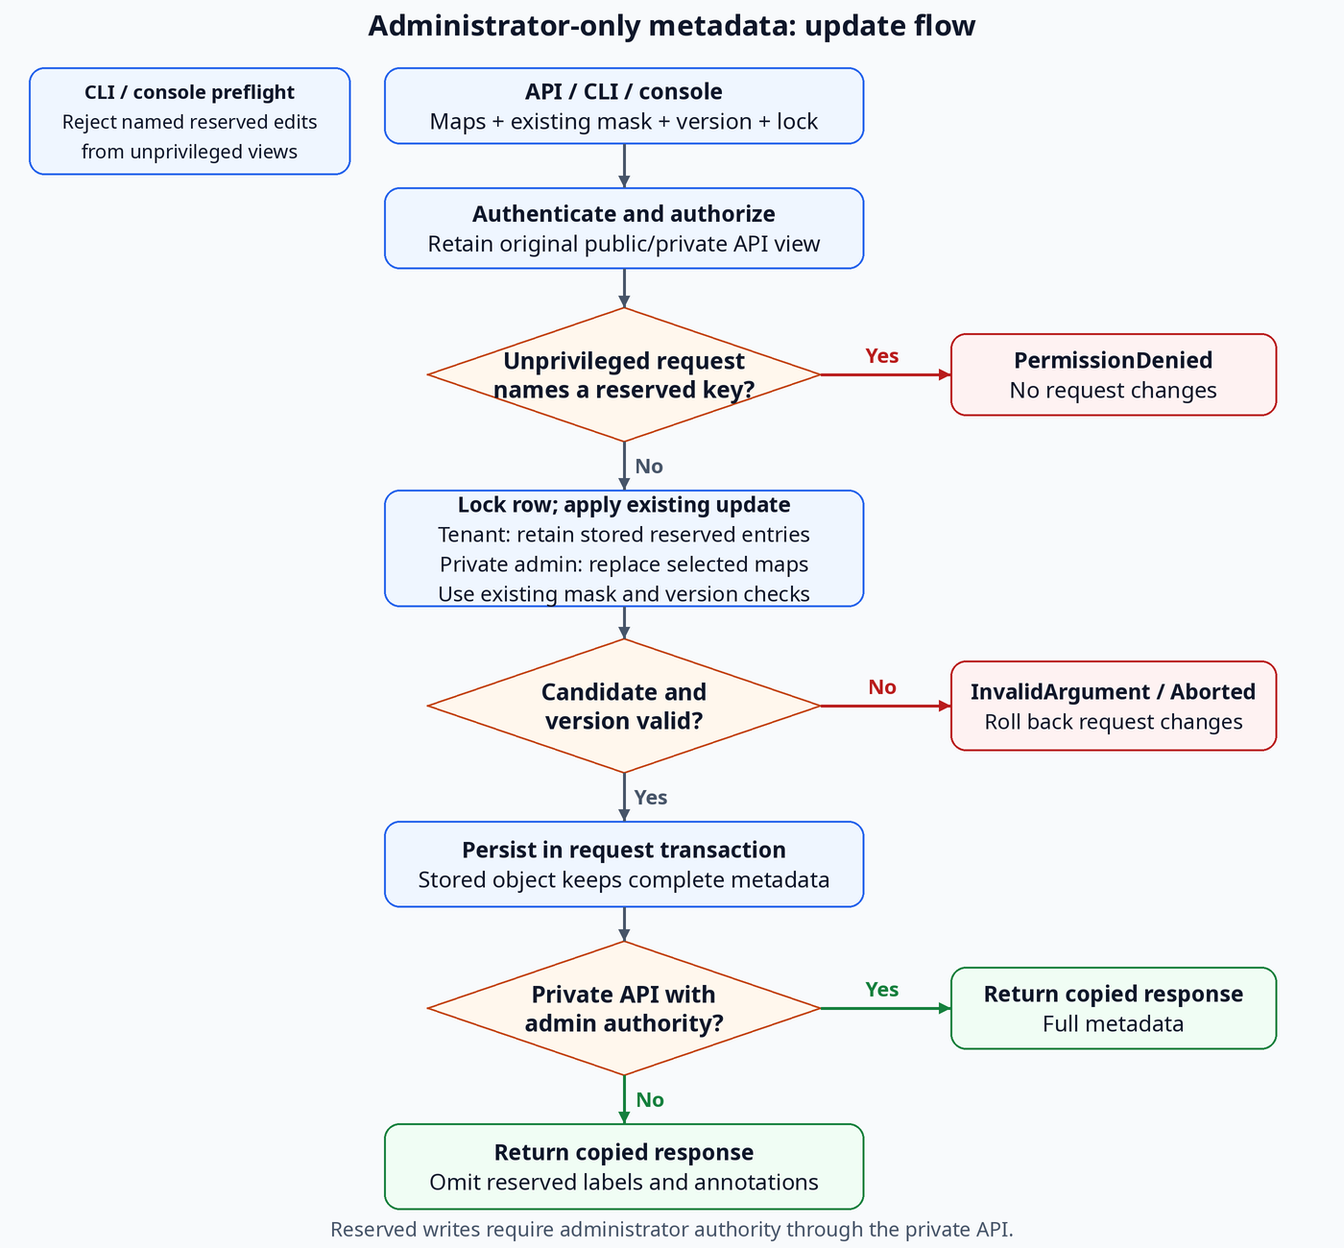
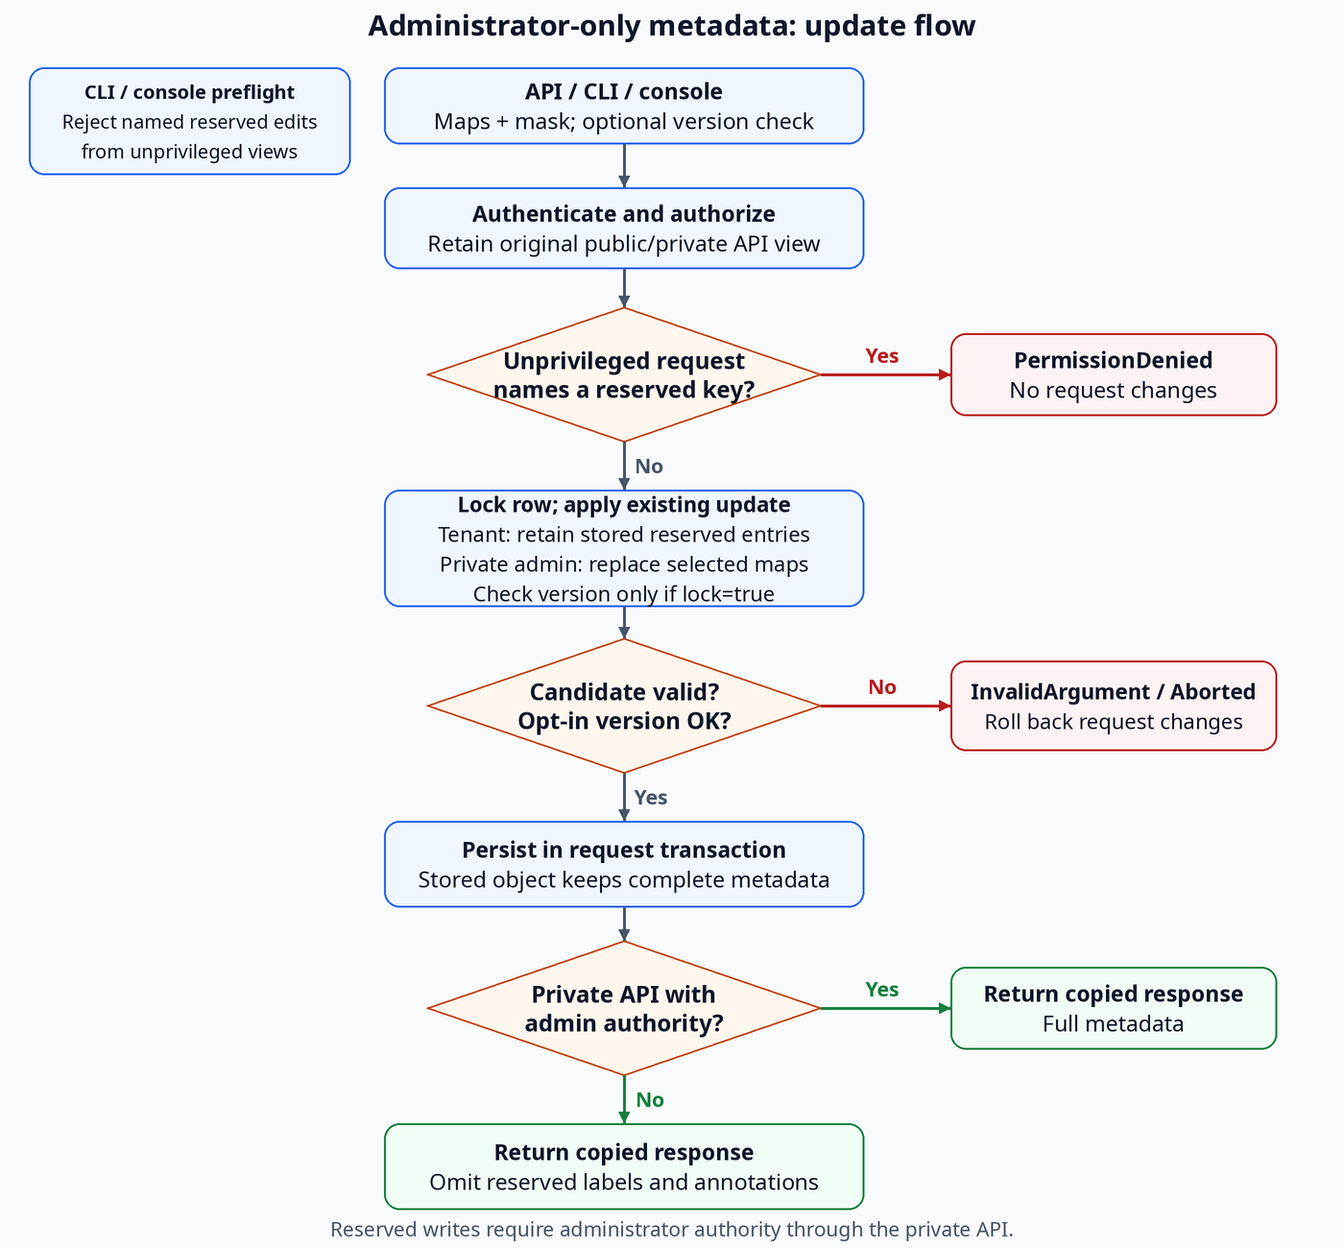
OSAC-6204: Clarify optional version checks for metadata updates
Assisted-by: Codex <noreply@openai.com>

Changed region(s): [[0.3071, 0.0923, 0.6143, 0.1231], [0.3379, 0.4615, 0.6143, 0.4923], [0.3686, 0.5231, 0.5529, 0.5846]]

diff --git a/enhancements/OSAC-6204-support-administrator-only-labels-and-annotations/testplan.md b/enhancements/OSAC-6204-support-administrator-only-labels-and-annotations/testplan.md
@@ -21,6 +21,8 @@ The PRD uses In Scope bullets rather than FR/NFR identifiers. IS-1 through IS-5 
 
 Under confirmed D6, tenant map omission always preserves stored reserved entries. Named forbidden CLI/console operations fail locally before any Update; supplied reserved entries and accepted explicit protected mask paths fail on the server. A whole-map request cannot reveal a removal target that a client has already discarded.
 
+Request locking remains optional: `lock` omitted/false skips the version comparison; `lock=true` checks the supplied version. Reserved-key protection applies to both modes. Database row locking and transaction atomicity remain in use in either mode.
+
 Cases can provide evidence for several bullets; their primary anchor determines numbering only. The case metadata below lists every tested interface change. IC-1 through IC-11 refer to the design's API Extensions table.
 
 ## Shared fixtures and oracles
@@ -81,7 +83,7 @@ For each of the 35 persistent types, seed valid dependencies and an object with 
 ##### Steps
 
 1. For each administrator, type, and map, Create with a reserved entry where supported, then Get/List through its private service.
-2. Read the full map/version, change a reserved value and add a second reserved key, then remove each by omission from a replacement map. Select the edited map with the existing update_mask and set lock=true.
+2. Read the full map, change a reserved value and add a second reserved key, then remove each by omission from a replacement map. Select the edited map with the existing update_mask. Repeat with lock omitted/false and with lock=true plus the current version.
 3. Compare ordinary entries, reserved values, identifier, and version after each mutation using an authorized private read.
 
 ##### Expected Results
@@ -128,7 +130,7 @@ Fixtures cover NetworkClass, VirtualNetwork, Subnet, SecurityGroup, ExternalIPPo
 
 ##### Steps
 
-1. For both admins, set, change, and remove reserved entries on all eight services using fetched replacement maps, existing map-level masks, version, and lock=true.
+1. For both admins, set, change, and remove reserved entries on all eight services using fetched replacement maps and existing map-level masks. Repeat with lock omitted/false and with lock=true plus the current version.
 2. Exercise supported ordinary and mixed ordinary/reserved map edits, retaining untouched operational labels. ExternalIP, ExternalIPAttachment, and NATGateway use a nonempty ordinary mask.
 3. Attempt each recorded forbidden field/default-label change together with a reserved edit. Also omit the mandatory mask on the three lifecycle services.
 4. Verify public Update remains absent and existing controller status operations retain their behavior.
@@ -154,14 +156,14 @@ A mutable private object has multiple entries in both maps and a known version. 
 
 ##### Steps
 
-1. PATCH an edited labels map containing qualified keys and version, first with update_mask=metadata.labels and lock=true, then without an explicit mask to exercise the body-derived mask.
+1. PATCH an edited labels map containing qualified keys, first with update_mask=metadata.labels, then without an explicit mask to exercise the body-derived mask. Repeat with lock omitted/false and with lock=true plus the current version.
 2. With an explicit labels mask, send an empty map, then an omitted map, to clear labels. Repeat for annotations and for both selected maps.
 3. Compare REST results with native gRPC map-level requests and verify unselected maps/fields through private reads.
 
 ##### Expected Results
 
 - Qualified keys remain map entries and reach the service unchanged; body-derived masks select complete maps, not per-key paths.
-- Administrator replacement/clearing agrees with native gRPC. Explicit masks retain selection; unselected fields remain intact. Version locking rejects stale input.
+- Administrator replacement/clearing agrees with native gRPC. Explicit masks retain selection; unselected fields remain intact. Stale versions are rejected only when lock=true; unlocked updates require no version precondition.
 - No custom query parser or additional mask representation is required. Tenant map preservation is checked separately by TC-IS4-01.
 
 #### TC-IS1-05: CLI private metadata operations submit complete selected maps
@@ -184,7 +186,7 @@ The updated CLI has private administrator credentials, sees namespace enforcemen
 
 ##### Expected Results
 
-- The request contains the complete edited selected map, its existing map-level update_mask, the fetched version, and lock=true.
+- The request contains the complete edited selected map and its existing map-level update_mask. Existing lock defaults/options are preserved; no new lock=true or version precondition is forced.
 - Untouched map entries and unrelated fields remain intact; key- deletes by omission and an empty string remains a value. Authorized absent-key removal is a no-op.
 - Private reads show reserved values; both personas have identical coverage. Alias/registry completeness failures cannot silently omit a type.
 
@@ -204,12 +206,12 @@ Both administrators can sign in to the deployed console. Valid fixtures exist fo
 
 1. Open /admin/metadata with each persona and enumerate every type, including private-only types and types without a dedicated detail page.
 2. For each type, use both map editors to add, change, and remove a reserved entry while retaining untouched ordinary/reserved entries.
-3. Inspect Connect/proxy request forwarding of full selected maps, the existing mask, and lock=true; follow detail-page links and reload through the API.
+3. Inspect Connect/proxy forwarding of full selected maps, the existing mask, and any supplied lock/version options; follow detail-page links and reload through the API. Verify this feature does not force lock=true.
 
 ##### Expected Results
 
 - Both personas have identical resource/action coverage; registry completeness is checked against all 35 types.
-- Editors display complete private maps and submit their edited replacements with version locking. Untouched entries and unselected maps/fields remain intact.
+- Editors display complete private maps and submit their edited replacements using existing update options, with no mandatory version checking. Untouched entries and unselected maps/fields remain intact.
 - Connect/proxy/API persistence and existing detail-page links reach the same shared editor.
 
 #### TC-IS1-07: Clients establish namespace enforcement before reserved writes
@@ -261,13 +263,13 @@ Accounts represent both administrators, Tenant Admin, Tenant User, and the restr
 - Public reserved Create/Update requests from either administrator return PermissionDenied and apply no changes or side effects. Administrator authority never bypasses the public API's reserved-key restriction.
 - Private RPC access continues to require the existing method/object authorization independently of metadata projection.
 
-#### TC-IS1-09: Version locking protects administrator replacement maps
+#### TC-IS1-09: Optional version checks retain existing update semantics
 
 | Interface Change | Priority | Automation |
 |---|---|---|
 | IC-3, IC-8, IC-9 | high | automated |
 
-**Tier:** Component integration; deployed Fulfillment; UI unit
+**Tier:** Component integration; deployed Fulfillment; CLI/UI unit
 
 ##### Preconditions
 
@@ -275,15 +277,17 @@ An administrator reads a complete map at version v; a second authorized update c
 
 ##### Steps
 
-1. Submit the edited stale map with its ordinary map-level mask, metadata.version=v, and lock=true through gRPC, REST, CLI, and Connect.
+1. Submit the edited stale map with its ordinary map-level mask, metadata.version=v, and lock=true through gRPC, REST, and Connect requests.
 2. Read the complete private object after each rejection and inspect CLI/editor state.
-3. Reload the full current map/version, retain the concurrent entry, and resubmit the intended edit.
+3. Repeat the API request with lock=false and with lock omitted, using a stale or omitted version. Compare the result with existing selected-map replacement semantics.
+4. Reload the full current map/version, retain the concurrent entry, and resubmit the intended edit with lock=true.
+5. Inspect CLI/UI protocol fixtures: preserve existing lock defaults and any existing caller opt-in option, without adding a mandatory version precondition.
 
 ##### Expected Results
 
-- Every stale operation returns Aborted, changes nothing, and retains the concurrent entry/current version.
-- CLI reports failure; the editor retains unsaved edits and requires reload/resubmission. It does not automatically replay a stale complete map.
-- A fresh-version replacement succeeds without losing the other administrator entry.
+- With lock=true, a stale operation returns Aborted, changes nothing, and retains the current map/version. Clients receiving that error report failure and retain unsaved edits for reload/resubmission.
+- With lock omitted/false, version mismatch alone does not reject the request. A valid replacement succeeds under existing semantics and can overwrite a concurrent change in the selected private map.
+- A fresh-version locked replacement succeeds without losing the other administrator entry. Client defaults and existing opt-in options remain unchanged.
 
 ### IS-2: Tenant visibility
 
@@ -470,6 +474,7 @@ A tenant-visible object has ordinary metadata and stored reserved entries; take 
 1. Update with mixed ordinary changes and a reserved entry that adds a key, changes a value, or supplies the same stored value.
 2. Repeat with the reserved supplied entry outside the ordinary mask and in each map.
 3. Read the full private object after each attempt.
+4. Repeat with lock omitted/false and with lock=true plus the current version.
 
 ##### Expected Results
 
@@ -614,7 +619,7 @@ A tenant-visible mutable object contains multiple ordinary/reserved entries in b
 1. Replace metadata.labels, metadata.annotations, and parent metadata with existing accepted masks, and exercise the existing no-mask path where supported.
 2. Send ordinary edits, empty selected maps, and omitted selected maps; verify an unselected map remains unchanged.
 3. Run an older CLI fixture that deletes an unseen reserved key locally before submitting its ordinary map, including a mixed ordinary change.
-4. Compare complete private maps/versions with the baseline ordinary replacement behavior.
+4. Repeat accepted forms with lock omitted/false and with lock=true plus the current version; compare complete private maps/versions with the baseline ordinary replacement behavior.
 
 ##### Expected Results
 
@@ -662,7 +667,7 @@ A tenant reads its visible maps/version v; an administrator adds, changes, or re
 ##### Steps
 
 1. Submit the stale ordinary replacement with its map-level mask and lock=true; inspect the row.
-2. Repeat with the existing unlocked path where supported, controlling row-acquisition order. Include empty map, parent-metadata, and unmasked forms.
+2. Repeat with lock=false and with lock omitted, controlling row-acquisition order and using a stale or omitted request version. Include empty-map, parent-metadata, and unmasked forms where those forms are supported.
 3. Compare ordinary edits and the complete latest reserved portion through an authorized private read.
 
 ##### Expected Results
@@ -715,7 +720,7 @@ Use older ordinary CLI fixtures, updated clients against legacy server fixtures,
 
 ##### Expected Results
 
-- Supported ordinary operations remain available; updated clients select only edited maps and use version locking without replacing unrelated fields.
+- Supported ordinary operations remain available; updated clients select only edited maps and preserve existing optional lock behavior without replacing unrelated fields.
 - The new server preserves reserved entries on tenant updates. Ordinary older-server operations remain supported, and capabilities do not grant permissions.
 - Public networking Update remains absent. Existing private networking metadata, operational-label, immutable-field, and lifecycle-mask rules remain enforced.
 
@@ -764,7 +769,7 @@ Guide examples, CLI help, and API schema are available for the proposed implemen
 ##### Expected Results
 
 - Guides describe identical admin actions on all persistent types and private-only types, tenant privacy, and whole-request rejection for observable forbidden input.
-- Examples use existing Update maps/masks/lock; administrator omission deletes while tenant omission preserves. Named CLI/console removal is checked before sending a map, and discarded targets cannot be inferred by the server.
+- Examples use existing Update maps/masks and make locking optional: omitted/false requires no version precondition; true checks the supplied version. Administrator omission deletes while tenant omission preserves. Named CLI/console removal is checked before sending a map, and discarded targets cannot be inferred by the server.
 - Support guidance requires namespace enforcement before reserved writes, documents older-client limitations, excludes in-place upgrades, and logs no protected values.
 
 ## Coverage summary and remaining work

diff --git a/enhancements/OSAC-6204-support-administrator-only-labels-and-annotations/design.md b/enhancements/OSAC-6204-support-administrator-only-labels-and-annotations/design.md
@@ -47,9 +47,9 @@ Use existing whole-map updates: authorized private administrators replace select
 ### Workflow Description
 
 1. An administrator selects an object through private Get/List, `osac login --private`, or `/admin/metadata`.
-2. The client reads its complete maps and version, then edits a copy while retaining untouched entries.
-3. Submit the changed maps, object ID, existing `update_mask`, and `lock=true`.
-4. The server validates and saves atomically, returning the private view. A stale version requires reload before retrying.
+2. The client reads its complete maps, then edits a copy while retaining untouched entries.
+3. Submit the changed maps, object ID, and existing `update_mask`. Optionally request version checking with `lock=true` and the fetched `metadata.version`.
+4. The server validates and saves atomically, returning the private view. A version mismatch with `lock=true` requires reload before retrying.
 
 ![Metadata update flow: request validation, tenant reserved-entry preservation, atomic persistence, and response filtering.](assets/metadata-update-flow.png)
 
@@ -63,7 +63,7 @@ IS-1 through IS-5 identify the PRD's five In Scope bullets. These interface IDs 
 |---|---|---|
 | IC-1 | Reserve the namespace and its subdomains; keep key/value validation | IS-1, IS-2, IS-3, IS-4, IS-5 |
 | IC-2 | Cover all 35 private persistent types and supported metadata updates | IS-1, IS-2, IS-4 |
-| IC-3 | Preserve tenant reserved entries using existing masks and version locking | IS-1, IS-3, IS-4 |
+| IC-3 | Preserve tenant reserved entries using existing masks and optional version locking | IS-1, IS-3, IS-4 |
 | IC-4 | Reject forbidden server input and named client operations atomically | IS-3, IS-4 |
 | IC-5 | Filter object responses, nested Metadata, and events | IS-2, IS-4 |
 | IC-6 | Protect filters and matching counts | IS-2, IS-4 |
@@ -124,23 +124,30 @@ Empty strings are values. Existing parent-metadata, unmasked, and accepted per-k
 
 Change GenericServer's update path:
 
-1. Read the stored object under the existing row lock and check the requested version.
+1. Read the stored object under the existing database row lock. Compare `metadata.version` only when the request sets `lock=true`.
 2. Apply the existing mask or unmasked replacement to a detached candidate.
 3. For public requests and non-admin private requests, replace the candidate's reserved portion in both maps with the locked stored portion. Preserve ordinary replacement/deletion behavior.
 4. Validate and save using existing identity, ownership, and resource rules. Restored stored entries are trusted data; do not reject them as caller input.
 
 Keep forwarding the mask and `lock` through public handlers. In TxInterceptor, call `tx.ReportError(&err)` before transaction End so returned handler errors roll back earlier writes. [Codebase: fulfillment-service/internal/servers/generic_server.go; fulfillment-service/internal/database/database_tx_interceptor.go]
 
-Updated metadata clients use the fetched version and `lock=true`. Transactions make the write atomic; version checks prevent stale client maps from overwriting concurrent edits. Legacy unlocked tenant updates still preserve the latest stored reserved portion.
+Keep the existing optional `lock` behavior in every API, CLI, and console path. This feature does not require clients to enable version checking.
+
+| Request | Version handling |
+|---|---|
+| `lock` omitted or `false` | No version precondition; existing map replacement behavior applies. |
+| `lock=true` | Compare the supplied `metadata.version`; a mismatch returns `Aborted` with no changes. |
+
+Reserved-key rejection, response filtering, and public-update preservation work with either setting. Both paths still use the database row lock and transaction; the request's `lock` flag controls only the version comparison. Without that comparison, a stale replacement can overwrite concurrent edits to the selected map, while public updates always retain its latest stored reserved entries.
 
 REST keeps `body: "object"`, generated body-derived masks, and explicit map-level query masks:
 
 ```text
-PATCH /api/private/v1/compute_instances/<id>?update_mask=metadata.labels&lock=true
-Body: {"metadata":{"version":7,"labels":{"example.org/environment":"prod"}}}
+PATCH /api/private/v1/compute_instances/<id>?update_mask=metadata.labels
+Body: {"metadata":{"labels":{"example.org/environment":"prod"}}}
 ```
 
-This replaces labels under the table's rules; an empty map clears the permitted portion. Native gRPC and Connect use the full request with object ID/version, the same map, `update_mask.paths = ["metadata.labels"]`, and `lock=true`. No Update field or custom gateway parser is added. [Codebase: proto/gen/osac/private/v1/compute_instances_service.pb.gw.go]
+This unlocked request replaces labels under the map rules; an empty map clears the permitted portion. To opt into version checking, add `lock=true` and the fetched `metadata.version`. Native gRPC and Connect use the full request with object ID, the same map, `update_mask.paths = ["metadata.labels"]`, and the same optional lock/version inputs. No Update field or custom gateway parser is added. [Codebase: proto/gen/osac/private/v1/compute_instances_service.pb.gw.go]
 
 #### Response, event, and query privacy
 
@@ -156,7 +163,7 @@ Retain supported ordinary/mixed edits, specification/status/ownership validation
 
 #### CLI, console, and capabilities
 
-- **CLI:** retain `label`/`annotate`, `key=value`, and `key-`. Validate all named operations before editing the fetched map; a forbidden set/removal, including an absent key in a mixed command, sends no Update and exits nonzero. Submit allowed changes as complete selected maps with version locking. Private mode selects the API; server authorization decides access.
+- **CLI:** retain `label`/`annotate`, `key=value`, and `key-`. Validate all named operations before editing the fetched map; a forbidden set/removal, including an absent key in a mixed command, sends no Update and exits nonzero. Submit allowed changes as complete selected maps, preserving existing lock defaults and caller options. Private mode selects the API; server authorization decides access.
 - **Console:** add `/admin/metadata`, a type/object selector, and shared map editor for all 35 private services. Link existing detail pages; keep private-only types in administrator navigation. Use the `admins` group claim for `isPlatformAdmin` and forward the user's token. Tenant pages use filtered maps for display/search and validate named operations. Editors retain unsaved changes after errors. [Locked: D5, D6]
 - **Capabilities:** add `MetadataCapabilities metadata = 3` to CapabilitiesGetResponse, containing `string reserved_prefix = 1`. Advertise `admin.osac.openshift.io/` only with complete write/response/event/query enforcement. Updated clients require the matching prefix before reserved Create/Update; the advertisement grants no authority. [Codebase: proto/private/osac/private/v1/capabilities_service.proto]
 
@@ -173,7 +180,7 @@ Enforce protection on the server, independently of UI roles, headers, or reflect
 | Forbidden server input/query | `PermissionDenied`; no changes or key-existence disclosure. Correct input/access. |
 | Named forbidden client operation | Local permission error; no Update or ordinary subset. |
 | Invalid key/mask or resource edit | Existing validation error, including `InvalidArgument`; correct input. |
-| Stale version | `Aborted`; reload the full map before retrying. |
+| Stale version with `lock=true` | `Aborted`; reload the full map before retrying. With `lock` omitted/false, apply existing update semantics. |
 | Object outside scope | Existing denial/not-found behavior. |
 | Database/transaction failure | Existing `Internal`/`Aborted` mapping and rollback; reload before retrying. |
 | Unsupported server | Block reserved Create/Update; ordinary operations continue. |
@@ -194,7 +201,7 @@ Use existing RPC status metrics and logs; add no metrics or events. Log methods 
 | Risk | Mitigation |
 |---|---|
 | Metadata leaks or a handler drops update controls | Cover all 35 types, nested/events, and every transport. |
-| Replacement loses entries | Retain untouched client entries, use version checks, and restore tenant reserved entries from the locked row. |
+| Replacement loses entries | Retain untouched client entries; optional version checks detect conflicts. Always restore public callers' reserved entries from the locked row. |
 | Client discards forbidden removal intent | Validate named operations before map editing. |
 | Whole-map queries add cost | Keep literal-key indexes and inspect query plans. |
 | UI authority or networking behavior diverges | Verify token/OPA mapping and existing networking validators. |
@@ -267,6 +274,6 @@ Reuse Kind, PostgreSQL, Keycloak, and Kafka harnesses. Add the G-1 browser runne
 ## Provenance
 
 Authored: respond @ design 0.11.5 - 1c6e8de, workspace main @ f0a8211
-Phases: draft, revise, revise, revise, revise, revise, revise, revise, revise, revise, respond, respond
+Phases: draft, revise, revise, revise, revise, revise, revise, revise, revise, revise, respond, respond, respond
 
-<!-- ai-workflow-provenance:{"schema_version":1,"provenance_kind":"session","workflow":"design","workflow_version":"0.11.5","ai_workflows":"1c6e8de","source_repo":"f0a8211","source_repo_branch":"main","commits_behind_main":0,"commits_ahead_main":0,"main_ref":"main","phases":["draft","revise","revise","revise","revise","revise","revise","revise","revise","revise","respond","respond"],"authoring_modes":["skill"],"context_changed":false,"origin_untracked":false} -->
+<!-- ai-workflow-provenance:{"schema_version":1,"provenance_kind":"session","workflow":"design","workflow_version":"0.11.5","ai_workflows":"1c6e8de","source_repo":"f0a8211","source_repo_branch":"main","commits_behind_main":0,"commits_ahead_main":0,"main_ref":"main","phases":["draft","revise","revise","revise","revise","revise","revise","revise","revise","revise","respond","respond","respond"],"authoring_modes":["skill"],"context_changed":false,"origin_untracked":false} -->
